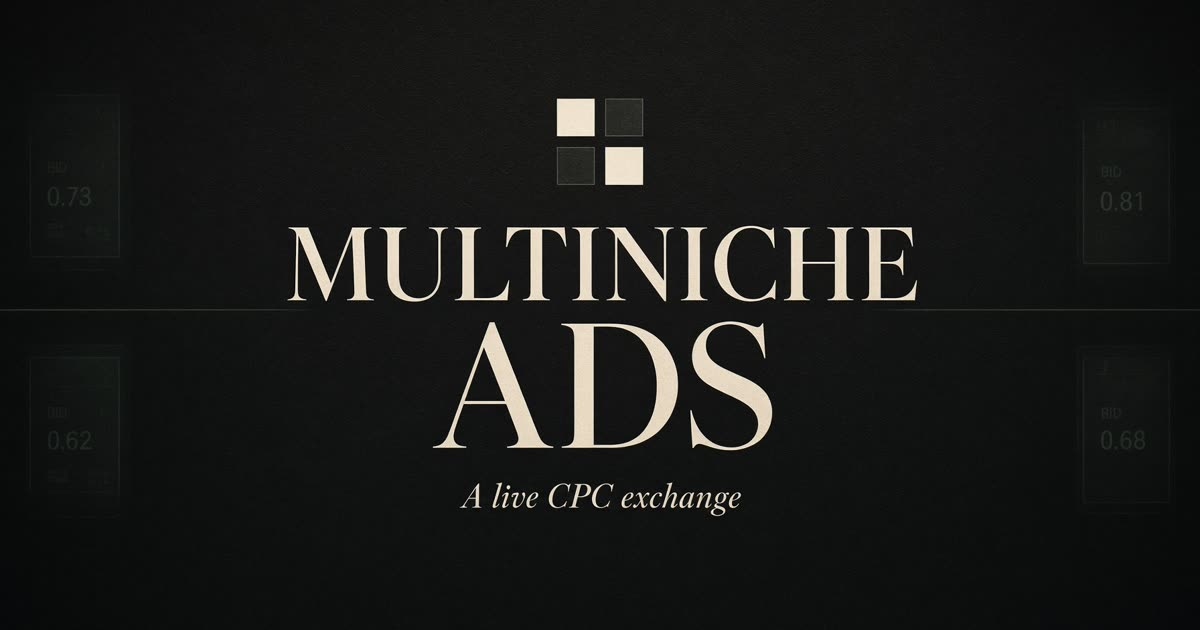
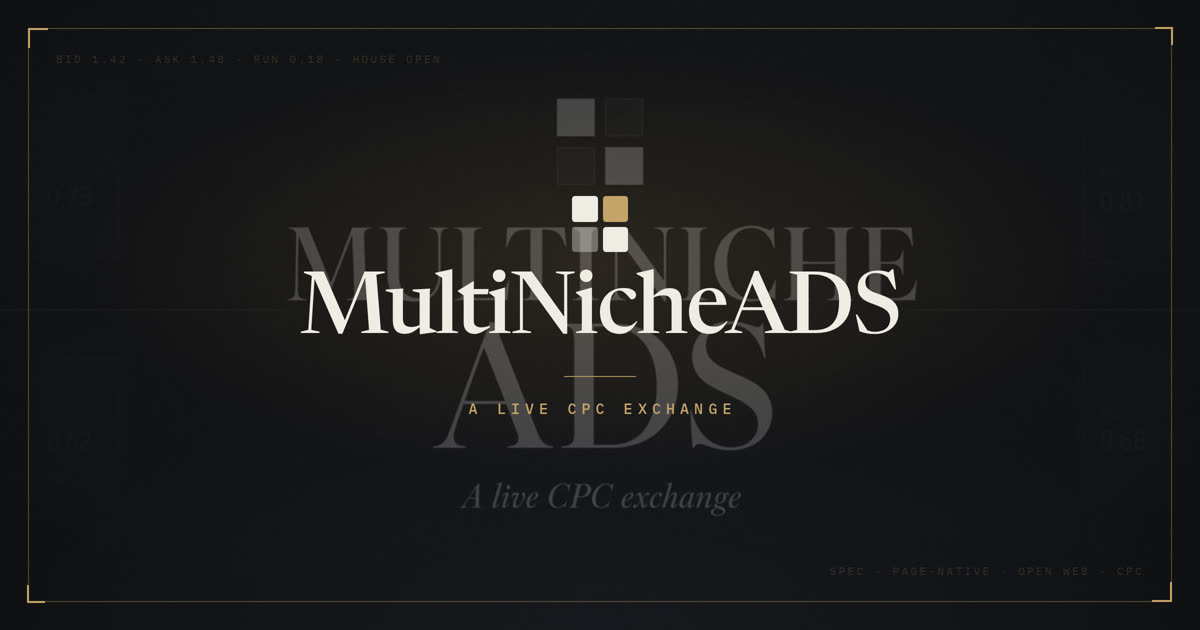
Replace the Grok puzzle tile with the MultiNicheADS mark.
App icon, share card, and a visible © footer.

Changed region(s): [[0.2467, 0.1508, 0.7708, 0.7238], [0.37, 0.754, 0.6167, 0.8143], [0.9558, 0.9349, 0.9867, 0.9651]]

diff --git a/src/components/app-shell.tsx b/src/components/app-shell.tsx
@@ -82,7 +82,7 @@ export function AppShell({
             multinicheai.com
           </a>
           .
-          <span className="mt-2 block">© 2026 MULTINICHE AI. All rights reserved.</span>
+          <span className="mt-2 block">© 2026 MULTINICHE AI. All rights reserved.</span>
         </p>
       </aside>
 
@@ -110,9 +110,9 @@ export function AppShell({
           {!hydrated ? (
             <p className="mt-8 text-xs text-subtle">Loading the book from the exchange…</p>
           ) : null}
-          <p className="mt-10 text-[11px] text-subtle md:hidden">
-            © 2026 MULTINICHE AI. All rights reserved.
-          </p>
+          <footer className="mt-16 border-t border-border pt-5 text-[11px] leading-relaxed text-subtle">
+            © 2026 MULTINICHE AI. All rights reserved.
+          </footer>
         </div>
       </main>
 

diff --git a/src/routes/__root.tsx b/src/routes/__root.tsx
@@ -19,10 +19,10 @@ export const Route = createRootRoute({
       { name: "theme-color", content: "#0c0d0f" },
     ],
     links: [
-      { rel: "icon", type: "image/svg+xml", href: "/favicon.svg" },
+      { rel: "icon", type: "image/svg+xml", href: "/favicon.svg?v=3" },
       { rel: "stylesheet", href: appCss },
       { rel: "manifest", href: "/__grok/manifest.webmanifest" },
-      { rel: "apple-touch-icon", href: "/__grok/icon-180.png" },
+      { rel: "apple-touch-icon", href: "/__grok/icon-180.png?v=3" },
     ],
   }),
   component: () => (
